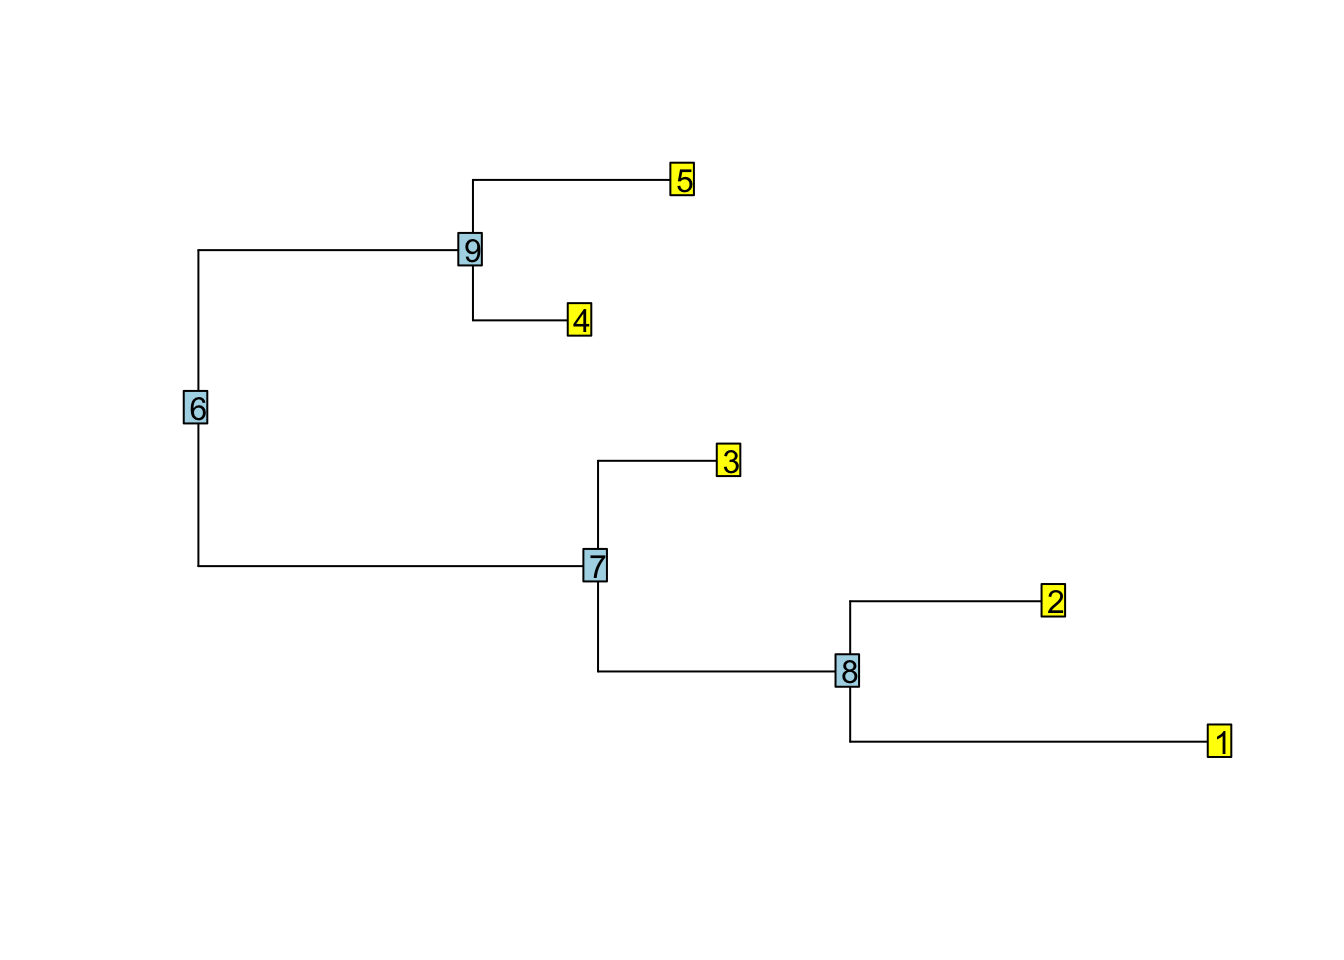
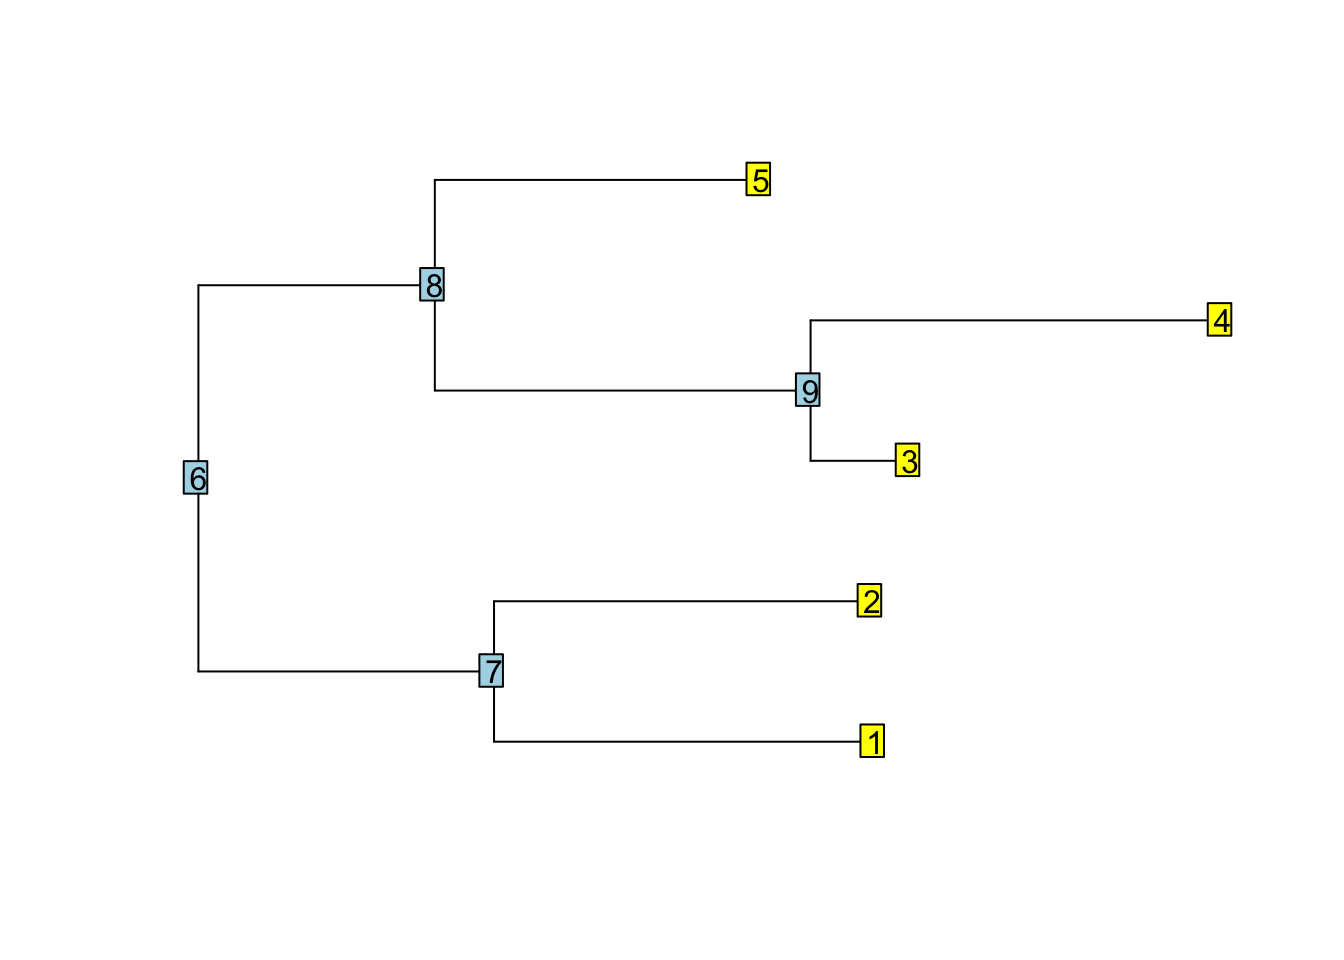
images for tree structure post

diff --git a/tree-structure/index.html b/tree-structure/index.html
@@ -141,26 +141,26 @@ tiplabels()</code></pre>
 <pre class="r fold-show"><code>reorder(tree, &quot;cladewise&quot;)$edge
 ##      [,1] [,2]
 ## [1,]    6    7
-## [2,]    7    8
-## [3,]    8    1
-## [4,]    8    2
-## [5,]    7    3
-## [6,]    6    9
+## [2,]    7    1
+## [3,]    7    2
+## [4,]    6    8
+## [5,]    8    9
+## [6,]    9    3
 ## [7,]    9    4
-## [8,]    9    5</code></pre>
+## [8,]    8    5</code></pre>
 <div id="postorder-tree-traversal" class="section level3">
 <h3>Postorder tree traversal</h3>
 <p><em>Postorder tree traversal</em> travels through the tree from the tips through the root. All the descendent nodes need to be visited before the ancestral node.</p>
 <pre class="r fold-show"><code>reorder(tree, &quot;postorder&quot;)$edge
 ##      [,1] [,2]
-## [1,]    9    4
-## [2,]    9    5
-## [3,]    8    1
-## [4,]    8    2
-## [5,]    7    8
-## [6,]    7    3
+## [1,]    9    3
+## [2,]    9    4
+## [3,]    8    9
+## [4,]    8    5
+## [5,]    7    1
+## [6,]    7    2
 ## [7,]    6    7
-## [8,]    6    9</code></pre>
+## [8,]    6    8</code></pre>
 <p>Defining the order of the traversal of the tree this way allows to iterate just through the tree. Reorder not only changes the order of the <code>edge</code> matrix, but also of the <code>edge.length</code> if it exists.</p>
 </div>
 <div id="convenience-functions" class="section level3">

diff --git a/content/post/Tree_structure.html b/content/post/Tree_structure.html
@@ -77,26 +77,26 @@ tiplabels()</code></pre>
 <pre class="r fold-show"><code>reorder(tree, &quot;cladewise&quot;)$edge
 ##      [,1] [,2]
 ## [1,]    6    7
-## [2,]    7    8
-## [3,]    8    1
-## [4,]    8    2
-## [5,]    7    3
-## [6,]    6    9
+## [2,]    7    1
+## [3,]    7    2
+## [4,]    6    8
+## [5,]    8    9
+## [6,]    9    3
 ## [7,]    9    4
-## [8,]    9    5</code></pre>
+## [8,]    8    5</code></pre>
 <div id="postorder-tree-traversal" class="section level3">
 <h3>Postorder tree traversal</h3>
 <p><em>Postorder tree traversal</em> travels through the tree from the tips through the root. All the descendent nodes need to be visited before the ancestral node.</p>
 <pre class="r fold-show"><code>reorder(tree, &quot;postorder&quot;)$edge
 ##      [,1] [,2]
-## [1,]    9    4
-## [2,]    9    5
-## [3,]    8    1
-## [4,]    8    2
-## [5,]    7    8
-## [6,]    7    3
+## [1,]    9    3
+## [2,]    9    4
+## [3,]    8    9
+## [4,]    8    5
+## [5,]    7    1
+## [6,]    7    2
 ## [7,]    6    7
-## [8,]    6    9</code></pre>
+## [8,]    6    8</code></pre>
 <p>Defining the order of the traversal of the tree this way allows to iterate just through the tree. Reorder not only changes the order of the <code>edge</code> matrix, but also of the <code>edge.length</code> if it exists.</p>
 </div>
 <div id="convenience-functions" class="section level3">
